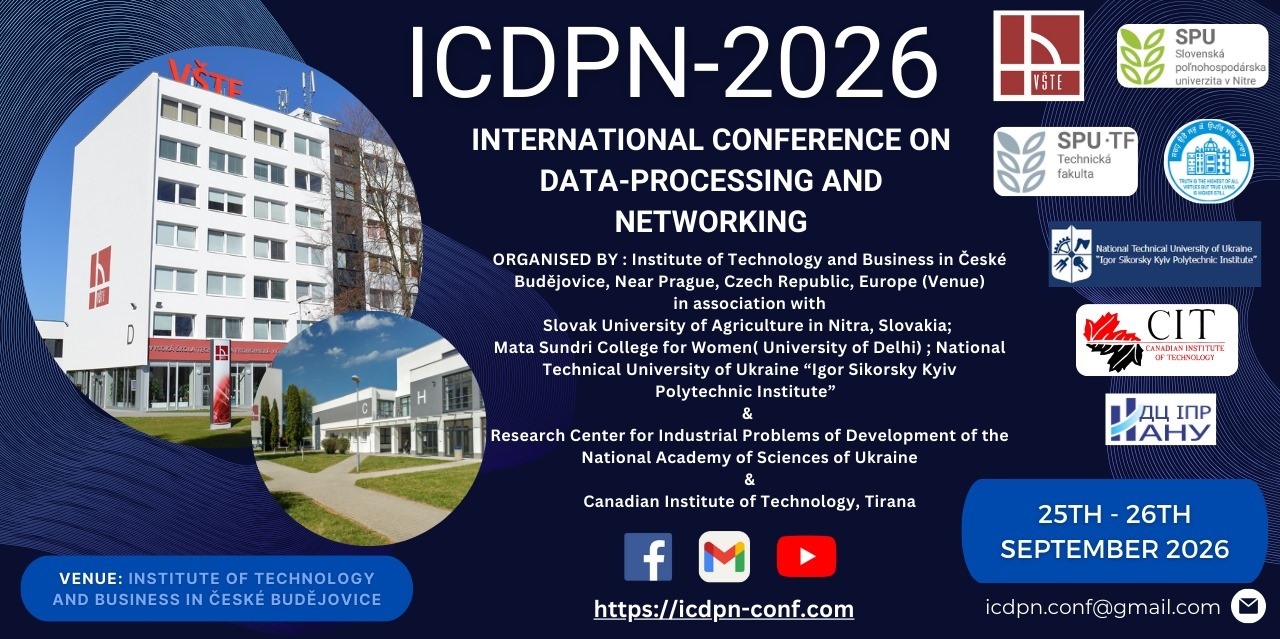
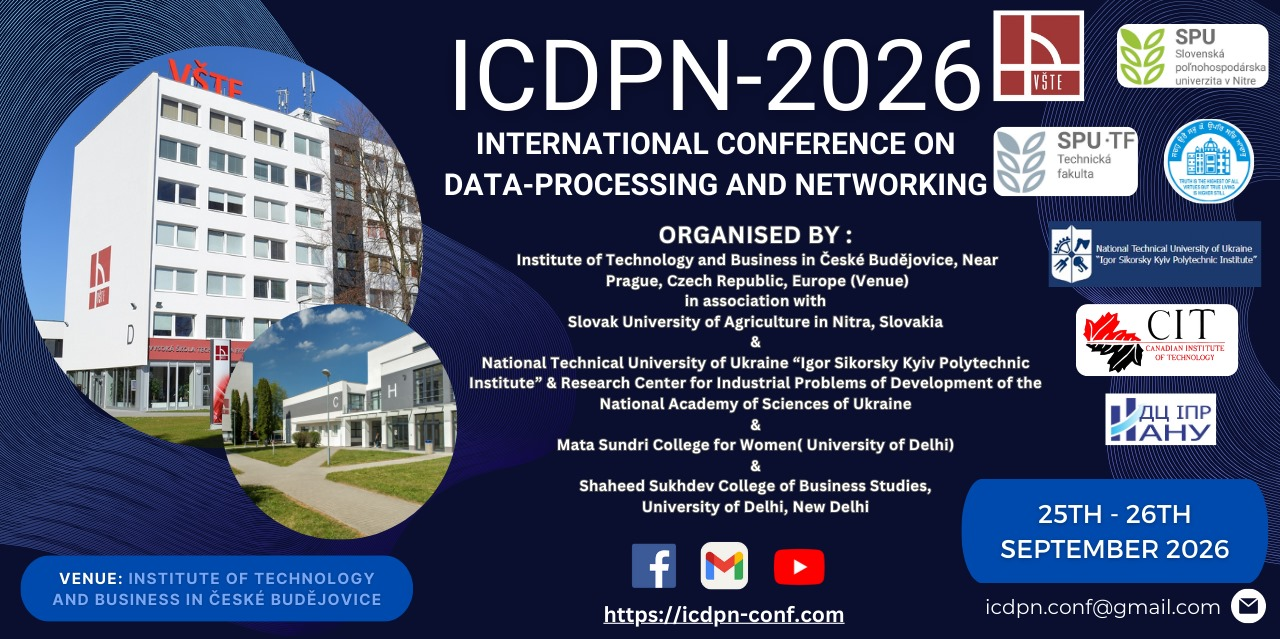
clg

Changed region(s): [[0.1562, 0.0297, 0.8125, 0.8623], [0.4688, 0.8326, 0.6875, 0.9812]]

diff --git a/src/components/Header.jsx b/src/components/Header.jsx
@@ -44,7 +44,7 @@ export default function Header() {
                  Institute of Technology and Business in České Budějovice, Near Prague, Czech Republic, Europe (Venue)                   
                  <br/>in association with <br/>Slovak University of Agriculture in Nitra, Slovakia <br/>& <br/>National Technical University of Ukraine “Igor Sikorsky Kyiv
 Polytechnic Institute”  & Research Center for Industrial Problems of Development of the National
-Academy of Sciences of Ukraine <br/> & <br/>Mata Sundri College for Women( University of Delhi) <br/> & <br/>Canadian Institute of Technology, Tirana
+Academy of Sciences of Ukraine <br/> & <br/>Mata Sundri College for Women( University of Delhi) <br/> & <br/>Canadian Institute of Technology, Tirana<br/> & <br/>  Shaheed Sukhdev College of Business Studies, University of Delhi, Delhi
 </span>
 
             </p>

diff --git a/src/Pages/SteeringCommittee.jsx b/src/Pages/SteeringCommittee.jsx
@@ -65,6 +65,7 @@ const SteeringCommittee = () => {
             <br />
             <p>Dr. João Manuel R. S. Tavares</p>
             <p>(Universidade do Porto (FEUP), PORTUGAL)</p><br/>
+            <p> Prof. Ajay Jaiswal</p><p> (Principal, School of Open Learning & Shaheed Sukhdev of College of Business Studies, University of Delhi, Delhi)</p>
            
             
           </div>
